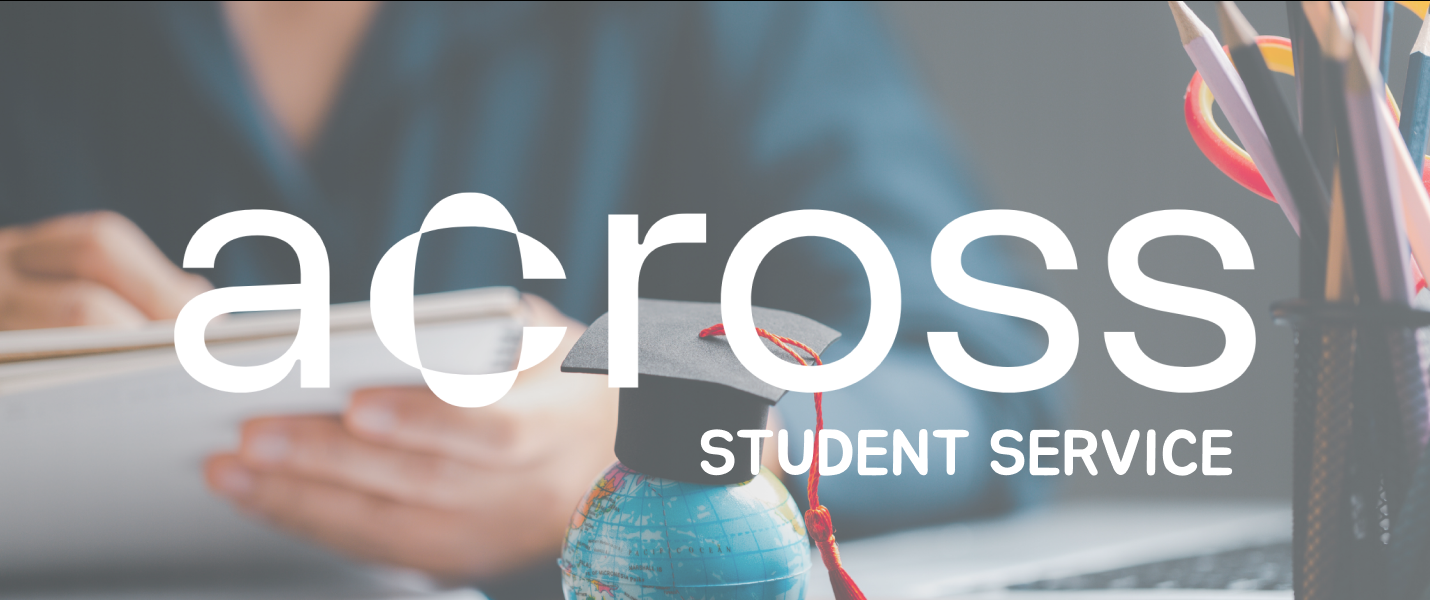
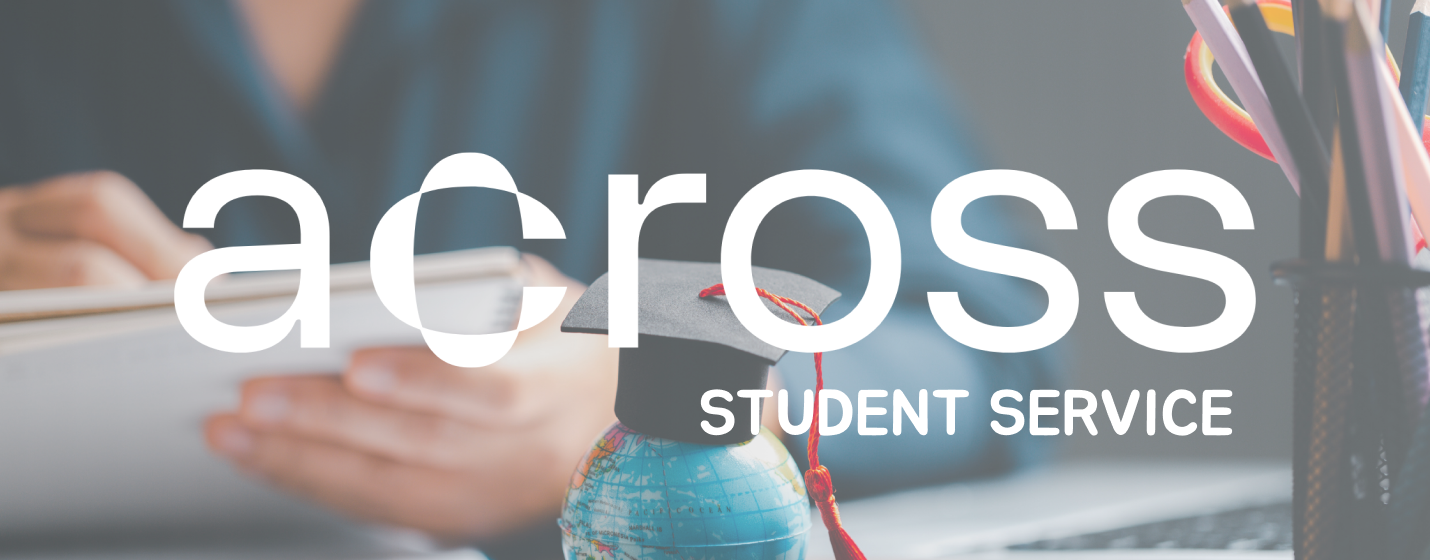
final commit for branch WW-145

diff --git a/Frontend/across/src/assets/css/CourseComparison.css b/Frontend/across/src/assets/css/CourseComparison.css
@@ -48,7 +48,42 @@ background: #007991;
   filter: drop-shadow(0 0 20px #e9d985);
 }
 
-@media screen and (max-width: 979px) {
+
+@media screen and (max-width: 480px) {
+  .courseComparison {
+    flex-direction: column;
+    justify-content: space-between;
+    align-items: center;
+  }
+
+  .courseComparison__image{
+    width: 100%;
+    height: auto;
+    object-fit: contain;
+   
+  }
+
+  .courseComparison__contents {
+    width: 100%;
+    padding: 0;
+    padding-top: 1rem;
+  }
+
+  .courseComparison__contents .courseComparison__title, .courseComparison__contents .courseComparison__description {
+    font-weight: 600;
+    margin-bottom: 1.25rem;
+  }
+
+  .courseComparison__contents .courseComparison__title {
+    font-size: 1rem;
+  }
+
+  .courseComparison__contents .courseComparison__description {
+    font-size: 0.75rem;
+  }
+}
+
+@media screen and (min-width: 481px) and (max-width: 979px) {
     .courseComparison {
       flex-direction: column;
       justify-content: space-between;

diff --git a/Frontend/across/src/assets/css/CourseFinder.css b/Frontend/across/src/assets/css/CourseFinder.css
@@ -47,7 +47,42 @@
   filter: drop-shadow(0 0 30px #439a86);
 }
 
-@media screen and (max-width: 979px) {
+
+@media screen and (max-width: 480px) {
+  .courseFinder {
+    flex-direction: column;
+    justify-content: space-between;
+    align-items: center;
+  }
+
+  .courseFinder__image{
+    width: 100%;
+    height: auto;
+    object-fit: contain;
+   
+  }
+
+  .courseFinder__details {
+    width: 100%;
+    padding: 0;
+    padding-bottom: 1rem;
+  }
+
+  .courseFinder__details .courseFinder__title, .courseFinder__details .courseFinder__description {
+    font-weight: 600;
+    margin-bottom: 1.25rem;
+  }
+
+  .courseFinder__details .courseFinder__title {
+    font-size: 1rem;
+  }
+
+  .courseFinder__details .courseFinder__description {
+    font-size: 0.75rem;
+  }
+}
+
+@media screen and (min-width: 481px) and (max-width: 979px) {
   .courseFinder {
     flex-direction: column;
     justify-content: space-between;

diff --git a/Frontend/across/src/pages/Home.jsx b/Frontend/across/src/pages/Home.jsx
@@ -13,7 +13,7 @@ const Home = () => {
       <div className="home">
         <Header brandName="Across" />
         <div className="siteContents">
-          <LandingImage source={blogBanner} title="Student Service" />
+          <LandingImage source={blogBanner} />
           <About />
           <CourseFinder />
           <CourseComparison />

diff --git a/Frontend/across/src/assets/css/About.css b/Frontend/across/src/assets/css/About.css
@@ -1,5 +1,5 @@
 .about {
-  padding: 78px 0;
+  padding: 50px 0;
 }
 .about__features {
   display: flex;
@@ -36,5 +36,18 @@
 width: 140px;
 height: 130px;
 flex-shrink: 0;
+}
+
+
+@media screen and (max-width: 480px) {
+  .feature > p {
+    font-size: 0.875rem;
+  }
+
+  .svg {
+    width: 110px;
+    height: 130px;
+
+    }
 }
 

diff --git a/Frontend/across/src/assets/css/LandingImage.css b/Frontend/across/src/assets/css/LandingImage.css
@@ -6,7 +6,7 @@
 
 .landingImage__banner {
   width: inherit;
-  object-fit: cover;
+  object-fit: contain;
 }
 
 .landingImage__slogan {
@@ -21,4 +21,11 @@
   letter-spacing: 3.2px;
   color: #007991;
   padding-top: 39px;
+}
+
+
+@media screen and (max-width: 480px) {
+  .landingImage__slogan > p {
+    font-size: 1rem;
+  }
 }

diff --git a/Frontend/across/src/assets/css/Header.css b/Frontend/across/src/assets/css/Header.css
@@ -106,7 +106,7 @@
 	align-items: center;
 	justify-content: center;
 	gap: 1.5rem;
-	transition: 1s;
+	transition: 500ms;
   background: rgba(255, 255, 255, 1);
 	}
 
